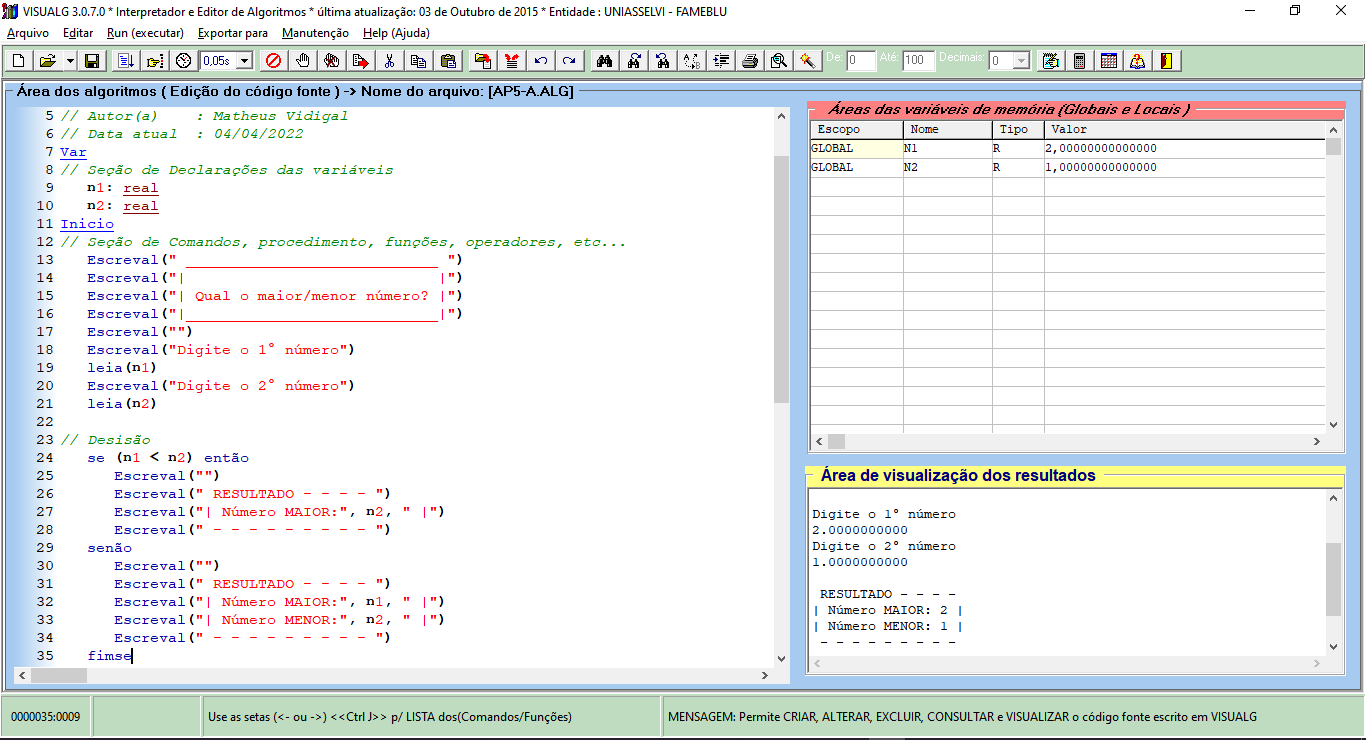
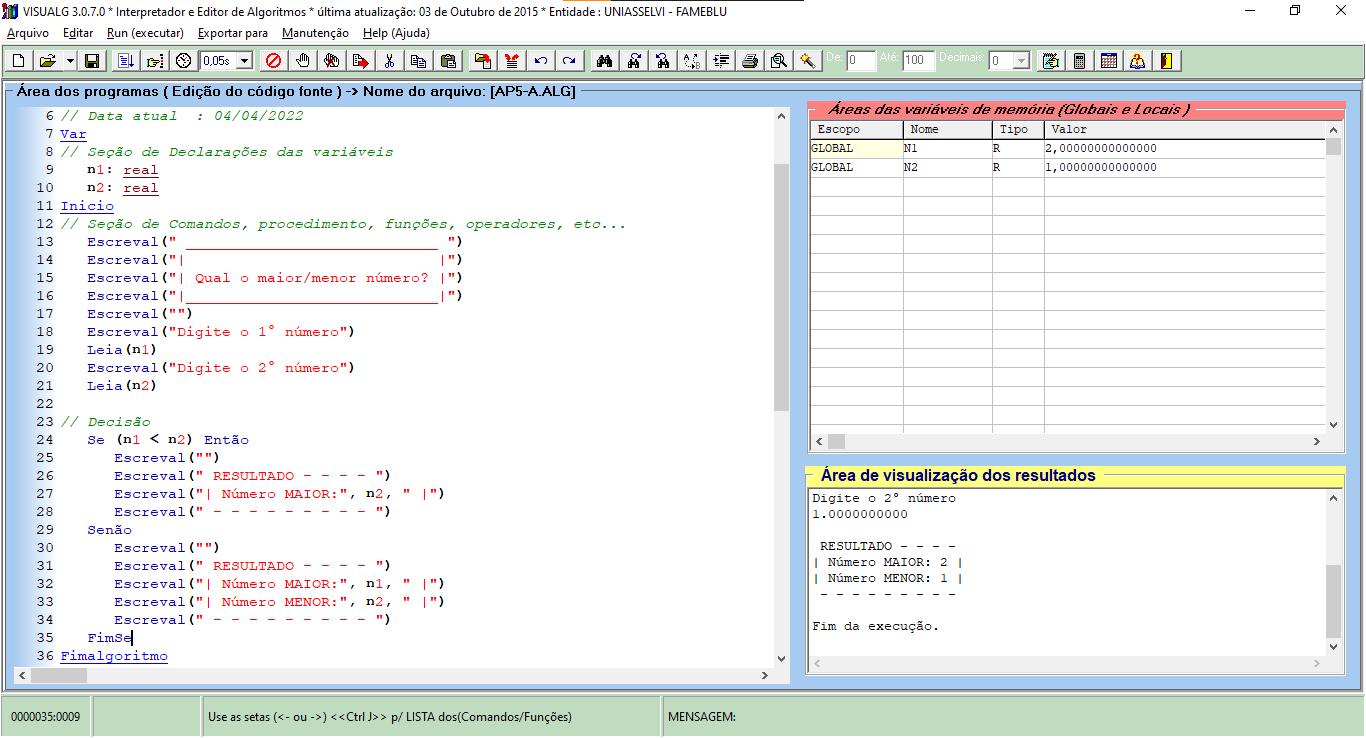
fix: typos

diff --git a/aula_05/AP5/txt.md b/aula_05/AP5/txt.md
@@ -4,10 +4,10 @@
 *comandos usados:*
 ```java
     Escreval("Digite o 1° número")
-    leia(n1)
-    se (n1 < n2) então
+    Leia(n1)
+    Se (n1 < n2) Então
         Escreval("Número MAIOR:", n2)
-    senão
+    Senão
         Escreval("Número MAIOR:", n1)
         Escreval("Número MENOR:", n2)
 ```
@@ -32,23 +32,23 @@ Inicio
     Escreval("|____________________________|")
     Escreval("")
     Escreval("Digite o 1° número")
-    leia(n1)
+    Leia(n1)
     Escreval("Digite o 2° número")
-    leia(n2)
+    Leia(n2)
 
-// Desisão
-    se (n1 < n2) então
+// Decisão
+    Se (n1 < n2) Então
         Escreval("")
         Escreval(" RESULTADO - - - - ")
         Escreval("| Número MAIOR:", n2, " |")
         Escreval(" - - - - - - - - - ")
-    senão
+    Senão
         Escreval("")
         Escreval(" RESULTADO - - - - ")
         Escreval("| Número MAIOR:", n1, " |")
         Escreval("| Número MENOR:", n2, " |")
         Escreval(" - - - - - - - - - ")
-    fimse
+    FimSe
 Fimalgoritmo
 ```
 
@@ -95,7 +95,7 @@ Inicio
     Escreval("( 2 ) - Calcular o triplo de:", n1)
     Leia(op)
 
-// Desisão
+// Decisão
     Escolha (op)
         Caso 1
             result <- n1 * 2
